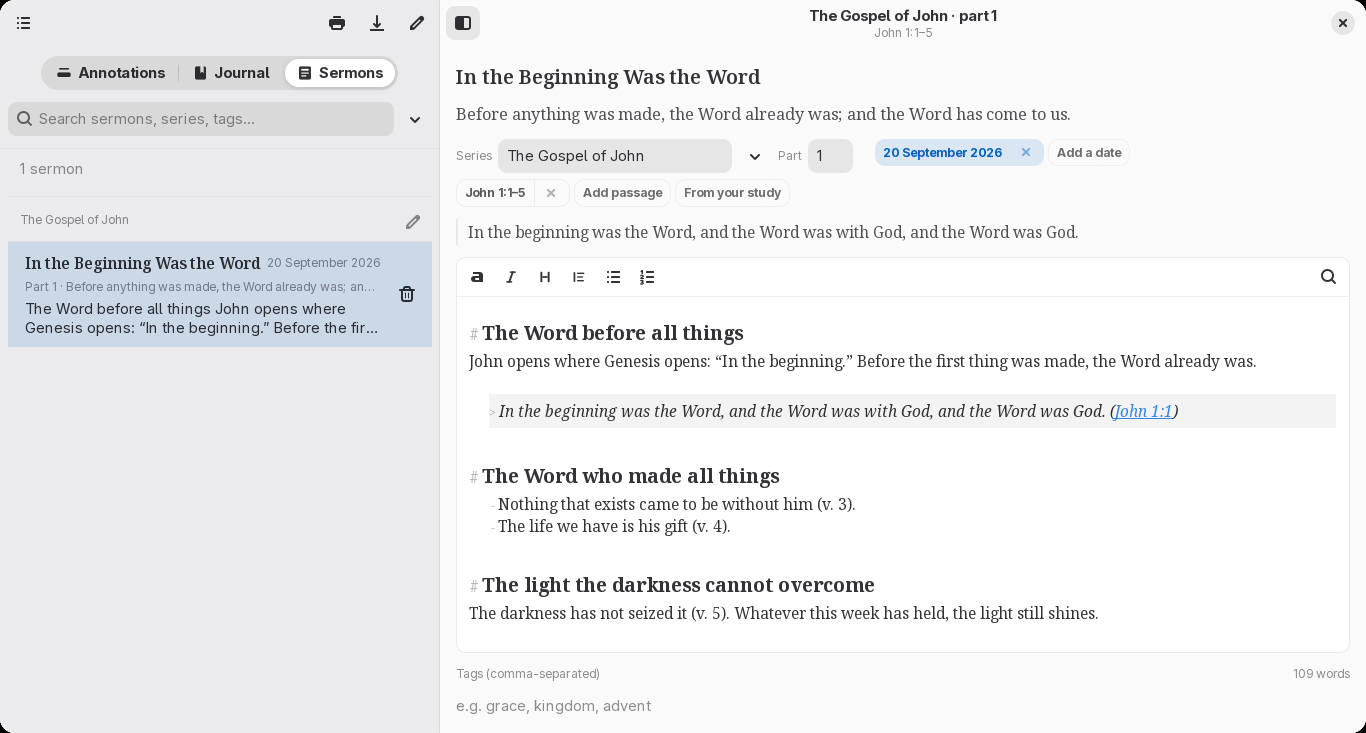
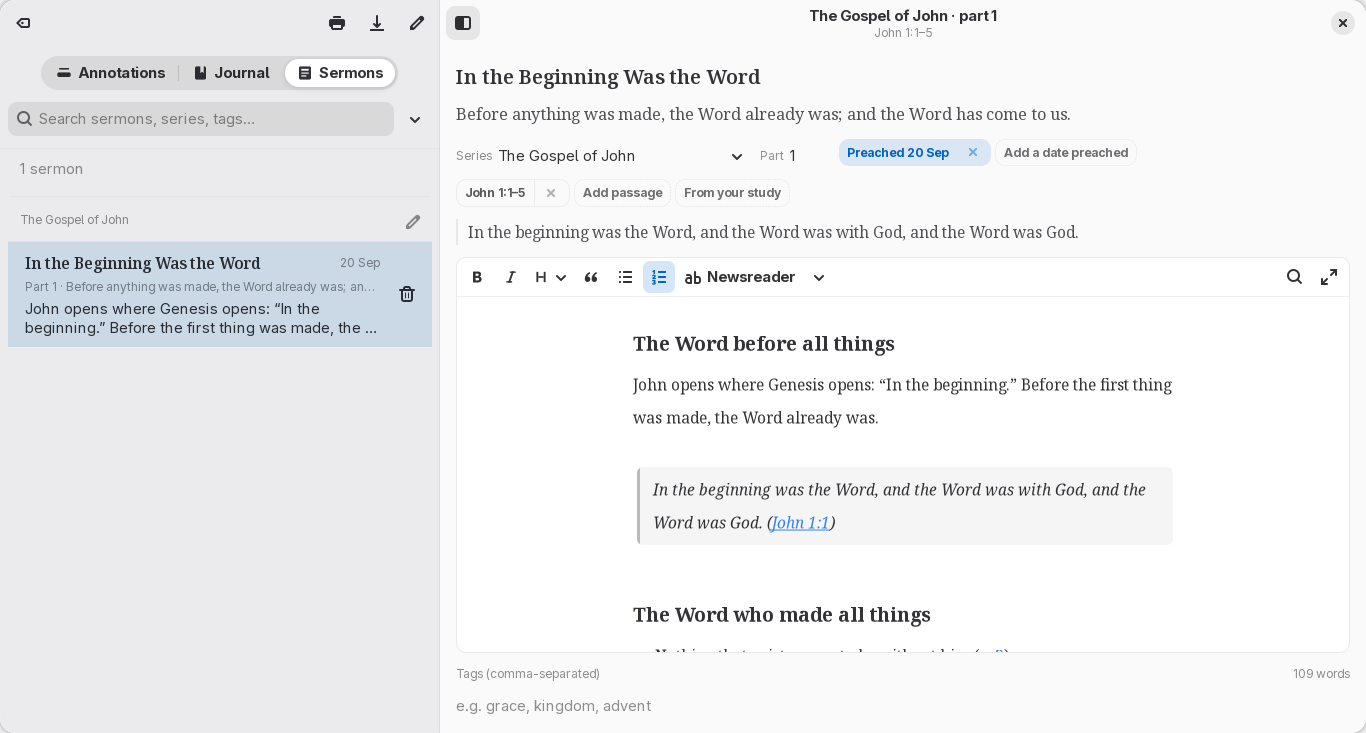
Release 1.8.1
The writing page (markers that fold away, paragraph styles, a font, the
reading measure), tables, a full-screen view to preach a sermon from,
pasting from web pages and word processors, notes read on the page, Read
the difference following the Bible beside it, Reduce motion honoured, and
the Today page and startup opening without jumps. Version in meson.build
and _version.py, a metainfo release of ten short items, and [Unreleased]
closed as 1.8.1.

The sermon-writing screenshot is rendered again from the app, in the store
set and on the site in all three languages: the old one predated the
writing page.

diff --git a/docs/ru/whats-new/index.html b/docs/ru/whats-new/index.html
@@ -56,6 +56,7 @@
     <p class="note">Заметки к последним выпускам есть только на английском.</p>
   </section>
   <ol class="releases">
+<li class="release" id="v1-8-1" lang="en"><div class="rel-head"><h2>Версия 1.8.1</h2><time datetime="2026-09-29">29 сентября 2026 г.</time></div><p class="rel-sum">A writing page that reads like a page, and a view to preach from.</p><ul class="rel-list"><li>Writing looks like a page: Markdown symbols fold away once you leave a line.</li><li>Paragraph styles and a choice of font for your journal and sermons.</li><li>Tables in the journal and sermons, with Tab to move between cells.</li><li>Preach from a sermon: F5 shows it full screen in large type, with a timer.</li><li>Pasting from a web page or word processor keeps headings, lists, bold and italic.</li><li>Click a verse&#x27;s note number to read the note on the page.</li><li>Read the difference follows the Bible beside it.</li><li>Reduce motion in GNOME Settings is now honoured.</li><li>The Today page and startup open without jumps and keep your place.</li><li>Esc behaves in the Annotations window, and word study counts from interlinears.</li></ul></li>
 <li class="release" id="v1-8-0" lang="en"><div class="rel-head"><h2>Версия 1.8.0</h2><time datetime="2026-09-26">26 сентября 2026 г.</time></div><p class="rel-sum">The Bible Family Tree, and downloads that look after themselves.</p><ul class="rel-list"><li>The Bible Family Tree draws the English Bibles people read, and the Bibles they came from, down the page in time. Print it as a poster.</li><li>The Line places every English Bible from word for word to free. Filter it by what you have, by tradition and by era.</li><li>Read the difference shows one verse in every Bible you have, with the Greek or Hebrew above it.</li><li>Each English Bible has a card: where it sits on the Line, the Bibles it came from, and the source of every fact.</li><li>Compare lists its Bibles from word for word to free, and finds the right verse in Bibles that number the Psalms differently.</li><li>Downloads wait their turn, show their progress, can be cancelled, and pick up where they stopped.</li><li>The Module Manager checks for updates when its lists are a week old, and a dot on the menu says when one is waiting.</li><li>Every download is checked for damage before it is installed.</li><li>The menu now holds only places, and a Preferences window holds the settings you set once.</li><li>Scriptura has a website, in English, Spanish and Russian.</li></ul></li>
 <li class="release" id="v1-7-3" lang="en"><div class="rel-head"><h2>Версия 1.7.3</h2><time datetime="2026-09-22">22 сентября 2026 г.</time></div><p class="rel-sum">Search the Greek and Hebrew behind the translation, and hear more of the fathers.</p><ul class="rel-list"><li>Search by the word under the translation. strong:G26 finds every verse whose Greek carries that word, and lemma: and morph: ask the same of the spelling and the grammar.</li><li>The occurrences beside a Strong&#x27;s definition can now cover the whole Bible, not only the book you are reading.</li><li>The historical commentaries add about 2,000 comments, most of them Origen. The Module Manager offers the new pack.</li><li>Double-clicking a word in a Russian Bible finds its dictionary article far more often. Update the Russian dictionary to get this.</li><li>The interface font now ships with the app, so the text looks the same on every desktop.</li><li>On desktops that put the app icon in the window bar, such as KDE, it no longer appears there.</li><li>Evening paper now says when your desktop has no Night Light, instead of doing nothing.</li><li>The starting library cards say how much each one downloads.</li><li>Where the system cannot play audio, no play button is offered.</li><li>A file chooser that cannot open now says so, and the Share and Written on this chapter menus fit their rows.</li></ul></li>
 <li class="release" id="v1-7-2" lang="en"><div class="rel-head"><h2>Версия 1.7.2</h2><time datetime="2026-09-17">17 сентября 2026 г.</time></div><p class="rel-sum">Your writing is kept safer, and the interlinears show more.</p><ul class="rel-list"><li>A daily copy of your notes, journal and sermons is kept on this device. Restore keeps a copy of what it replaces.</li><li>Closing the app or logging out no longer loses the last sentence you typed.</li><li>Opening the app a second time no longer risks your notes. It brings the open window forward.</li><li>Find and replace in journal entries and sermons, with Ctrl+F.</li><li>The Greek interlinear can show the words other editions add or change.</li><li>The Hebrew interlinear can show the form the scribes wrote under the form that is read.</li><li>Type a verse reference in the GNOME search to see it and open it.</li><li>Ctrl+D bookmarks the chapter. Alt+[ and Alt+] go back and forward.</li><li>The annotations list shows the verse and updates itself.</li><li>Highlights sat one word late when footnotes were hidden. This is fixed.</li></ul></li>

diff --git a/docs/es/whats-new/index.html b/docs/es/whats-new/index.html
@@ -56,6 +56,7 @@
     <p class="note">Las notas de las versiones más recientes solo están en inglés.</p>
   </section>
   <ol class="releases">
+<li class="release" id="v1-8-1" lang="en"><div class="rel-head"><h2>Versión 1.8.1</h2><time datetime="2026-09-29">29 de septiembre de 2026</time></div><p class="rel-sum">A writing page that reads like a page, and a view to preach from.</p><ul class="rel-list"><li>Writing looks like a page: Markdown symbols fold away once you leave a line.</li><li>Paragraph styles and a choice of font for your journal and sermons.</li><li>Tables in the journal and sermons, with Tab to move between cells.</li><li>Preach from a sermon: F5 shows it full screen in large type, with a timer.</li><li>Pasting from a web page or word processor keeps headings, lists, bold and italic.</li><li>Click a verse&#x27;s note number to read the note on the page.</li><li>Read the difference follows the Bible beside it.</li><li>Reduce motion in GNOME Settings is now honoured.</li><li>The Today page and startup open without jumps and keep your place.</li><li>Esc behaves in the Annotations window, and word study counts from interlinears.</li></ul></li>
 <li class="release" id="v1-8-0" lang="en"><div class="rel-head"><h2>Versión 1.8.0</h2><time datetime="2026-09-26">26 de septiembre de 2026</time></div><p class="rel-sum">The Bible Family Tree, and downloads that look after themselves.</p><ul class="rel-list"><li>The Bible Family Tree draws the English Bibles people read, and the Bibles they came from, down the page in time. Print it as a poster.</li><li>The Line places every English Bible from word for word to free. Filter it by what you have, by tradition and by era.</li><li>Read the difference shows one verse in every Bible you have, with the Greek or Hebrew above it.</li><li>Each English Bible has a card: where it sits on the Line, the Bibles it came from, and the source of every fact.</li><li>Compare lists its Bibles from word for word to free, and finds the right verse in Bibles that number the Psalms differently.</li><li>Downloads wait their turn, show their progress, can be cancelled, and pick up where they stopped.</li><li>The Module Manager checks for updates when its lists are a week old, and a dot on the menu says when one is waiting.</li><li>Every download is checked for damage before it is installed.</li><li>The menu now holds only places, and a Preferences window holds the settings you set once.</li><li>Scriptura has a website, in English, Spanish and Russian.</li></ul></li>
 <li class="release" id="v1-7-3" lang="en"><div class="rel-head"><h2>Versión 1.7.3</h2><time datetime="2026-09-22">22 de septiembre de 2026</time></div><p class="rel-sum">Search the Greek and Hebrew behind the translation, and hear more of the fathers.</p><ul class="rel-list"><li>Search by the word under the translation. strong:G26 finds every verse whose Greek carries that word, and lemma: and morph: ask the same of the spelling and the grammar.</li><li>The occurrences beside a Strong&#x27;s definition can now cover the whole Bible, not only the book you are reading.</li><li>The historical commentaries add about 2,000 comments, most of them Origen. The Module Manager offers the new pack.</li><li>Double-clicking a word in a Russian Bible finds its dictionary article far more often. Update the Russian dictionary to get this.</li><li>The interface font now ships with the app, so the text looks the same on every desktop.</li><li>On desktops that put the app icon in the window bar, such as KDE, it no longer appears there.</li><li>Evening paper now says when your desktop has no Night Light, instead of doing nothing.</li><li>The starting library cards say how much each one downloads.</li><li>Where the system cannot play audio, no play button is offered.</li><li>A file chooser that cannot open now says so, and the Share and Written on this chapter menus fit their rows.</li></ul></li>
 <li class="release" id="v1-7-2" lang="en"><div class="rel-head"><h2>Versión 1.7.2</h2><time datetime="2026-09-17">17 de septiembre de 2026</time></div><p class="rel-sum">Your writing is kept safer, and the interlinears show more.</p><ul class="rel-list"><li>A daily copy of your notes, journal and sermons is kept on this device. Restore keeps a copy of what it replaces.</li><li>Closing the app or logging out no longer loses the last sentence you typed.</li><li>Opening the app a second time no longer risks your notes. It brings the open window forward.</li><li>Find and replace in journal entries and sermons, with Ctrl+F.</li><li>The Greek interlinear can show the words other editions add or change.</li><li>The Hebrew interlinear can show the form the scribes wrote under the form that is read.</li><li>Type a verse reference in the GNOME search to see it and open it.</li><li>Ctrl+D bookmarks the chapter. Alt+[ and Alt+] go back and forward.</li><li>The annotations list shows the verse and updates itself.</li><li>Highlights sat one word late when footnotes were hidden. This is fixed.</li></ul></li>

diff --git a/docs/whats-new/index.html b/docs/whats-new/index.html
@@ -56,6 +56,7 @@
 
   </section>
   <ol class="releases">
+<li class="release" id="v1-8-1"><div class="rel-head"><h2>Version 1.8.1</h2><time datetime="2026-09-29">29 September 2026</time></div><p class="rel-sum">A writing page that reads like a page, and a view to preach from.</p><ul class="rel-list"><li>Writing looks like a page: Markdown symbols fold away once you leave a line.</li><li>Paragraph styles and a choice of font for your journal and sermons.</li><li>Tables in the journal and sermons, with Tab to move between cells.</li><li>Preach from a sermon: F5 shows it full screen in large type, with a timer.</li><li>Pasting from a web page or word processor keeps headings, lists, bold and italic.</li><li>Click a verse&#x27;s note number to read the note on the page.</li><li>Read the difference follows the Bible beside it.</li><li>Reduce motion in GNOME Settings is now honoured.</li><li>The Today page and startup open without jumps and keep your place.</li><li>Esc behaves in the Annotations window, and word study counts from interlinears.</li></ul></li>
 <li class="release" id="v1-8-0"><div class="rel-head"><h2>Version 1.8.0</h2><time datetime="2026-09-26">26 September 2026</time></div><p class="rel-sum">The Bible Family Tree, and downloads that look after themselves.</p><ul class="rel-list"><li>The Bible Family Tree draws the English Bibles people read, and the Bibles they came from, down the page in time. Print it as a poster.</li><li>The Line places every English Bible from word for word to free. Filter it by what you have, by tradition and by era.</li><li>Read the difference shows one verse in every Bible you have, with the Greek or Hebrew above it.</li><li>Each English Bible has a card: where it sits on the Line, the Bibles it came from, and the source of every fact.</li><li>Compare lists its Bibles from word for word to free, and finds the right verse in Bibles that number the Psalms differently.</li><li>Downloads wait their turn, show their progress, can be cancelled, and pick up where they stopped.</li><li>The Module Manager checks for updates when its lists are a week old, and a dot on the menu says when one is waiting.</li><li>Every download is checked for damage before it is installed.</li><li>The menu now holds only places, and a Preferences window holds the settings you set once.</li><li>Scriptura has a website, in English, Spanish and Russian.</li></ul></li>
 <li class="release" id="v1-7-3"><div class="rel-head"><h2>Version 1.7.3</h2><time datetime="2026-09-22">22 September 2026</time></div><p class="rel-sum">Search the Greek and Hebrew behind the translation, and hear more of the fathers.</p><ul class="rel-list"><li>Search by the word under the translation. strong:G26 finds every verse whose Greek carries that word, and lemma: and morph: ask the same of the spelling and the grammar.</li><li>The occurrences beside a Strong&#x27;s definition can now cover the whole Bible, not only the book you are reading.</li><li>The historical commentaries add about 2,000 comments, most of them Origen. The Module Manager offers the new pack.</li><li>Double-clicking a word in a Russian Bible finds its dictionary article far more often. Update the Russian dictionary to get this.</li><li>The interface font now ships with the app, so the text looks the same on every desktop.</li><li>On desktops that put the app icon in the window bar, such as KDE, it no longer appears there.</li><li>Evening paper now says when your desktop has no Night Light, instead of doing nothing.</li><li>The starting library cards say how much each one downloads.</li><li>Where the system cannot play audio, no play button is offered.</li><li>A file chooser that cannot open now says so, and the Share and Written on this chapter menus fit their rows.</li></ul></li>
 <li class="release" id="v1-7-2"><div class="rel-head"><h2>Version 1.7.2</h2><time datetime="2026-09-17">17 September 2026</time></div><p class="rel-sum">Your writing is kept safer, and the interlinears show more.</p><ul class="rel-list"><li>A daily copy of your notes, journal and sermons is kept on this device. Restore keeps a copy of what it replaces.</li><li>Closing the app or logging out no longer loses the last sentence you typed.</li><li>Opening the app a second time no longer risks your notes. It brings the open window forward.</li><li>Find and replace in journal entries and sermons, with Ctrl+F.</li><li>The Greek interlinear can show the words other editions add or change.</li><li>The Hebrew interlinear can show the form the scribes wrote under the form that is read.</li><li>Type a verse reference in the GNOME search to see it and open it.</li><li>Ctrl+D bookmarks the chapter. Alt+[ and Alt+] go back and forward.</li><li>The annotations list shows the verse and updates itself.</li><li>Highlights sat one word late when footnotes were hidden. This is fixed.</li></ul></li>

diff --git a/docs/ru/index.html b/docs/ru/index.html
@@ -55,7 +55,7 @@
     <p class="lede">Два перевода рядом, греческий и еврейский под каждым словом и то, как Церковь читала каждый стих. Бесплатно, без учётной записи, всё на вашем компьютере.</p>
     <div class="act">
       <a class="go" href="#install"><svg viewBox="0 0 18 18" aria-hidden="true"><path d="M9 2.5v9m0 0-3.5-3.5M9 11.5l3.5-3.5M3 13.5v1.5h12v-1.5"/></svg>Скачать для Linux</a>
-      <a class="quiet meta-link" href="../ru/whats-new/#v1-8-0">Версия 1.8.0 · Flatpak</a>
+      <a class="quiet meta-link" href="../ru/whats-new/#v1-8-1">Версия 1.8.1 · Flatpak</a>
     </div>
   </section>
 

diff --git a/docs/es/index.html b/docs/es/index.html
@@ -55,7 +55,7 @@
     <p class="lede">Dos traducciones lado a lado, el griego y el hebreo bajo cada palabra, y cómo leyó la Iglesia cada versículo. Gratis, sin cuenta, todo en su propio equipo.</p>
     <div class="act">
       <a class="go" href="#install"><svg viewBox="0 0 18 18" aria-hidden="true"><path d="M9 2.5v9m0 0-3.5-3.5M9 11.5l3.5-3.5M3 13.5v1.5h12v-1.5"/></svg>Descargar para Linux</a>
-      <a class="quiet meta-link" href="../es/whats-new/#v1-8-0">Versión 1.8.0 · Flatpak</a>
+      <a class="quiet meta-link" href="../es/whats-new/#v1-8-1">Versión 1.8.1 · Flatpak</a>
     </div>
   </section>
 

diff --git a/docs/index.html b/docs/index.html
@@ -55,7 +55,7 @@
     <p class="lede">Two translations side by side, the Greek and Hebrew under every word, and how the church read each verse. Free, with no account, all on your own computer.</p>
     <div class="act">
       <a class="go" href="#install"><svg viewBox="0 0 18 18" aria-hidden="true"><path d="M9 2.5v9m0 0-3.5-3.5M9 11.5l3.5-3.5M3 13.5v1.5h12v-1.5"/></svg>Download for Linux</a>
-      <a class="quiet meta-link" href="whats-new/#v1-8-0">Version 1.8.0 · Flatpak</a>
+      <a class="quiet meta-link" href="whats-new/#v1-8-1">Version 1.8.1 · Flatpak</a>
     </div>
   </section>
 

diff --git a/_version.py b/_version.py
@@ -10,4 +10,4 @@ Versioning is semver-ish: bump MINOR for new features, PATCH for
 bugfixes.
 """
 
-__version__ = '1.8.0'
+__version__ = '1.8.1'

diff --git a/CHANGELOG.md b/CHANGELOG.md
@@ -4,7 +4,7 @@ All notable changes to Scriptura. Format roughly follows
 [Keep a Changelog](https://keepachangelog.com/). Versioning is
 semver-ish — 0.x was the pre-Flathub testing track.
 
-## [Unreleased]
+## [1.8.1] — 2026-09-29
 
 ### Added
 
